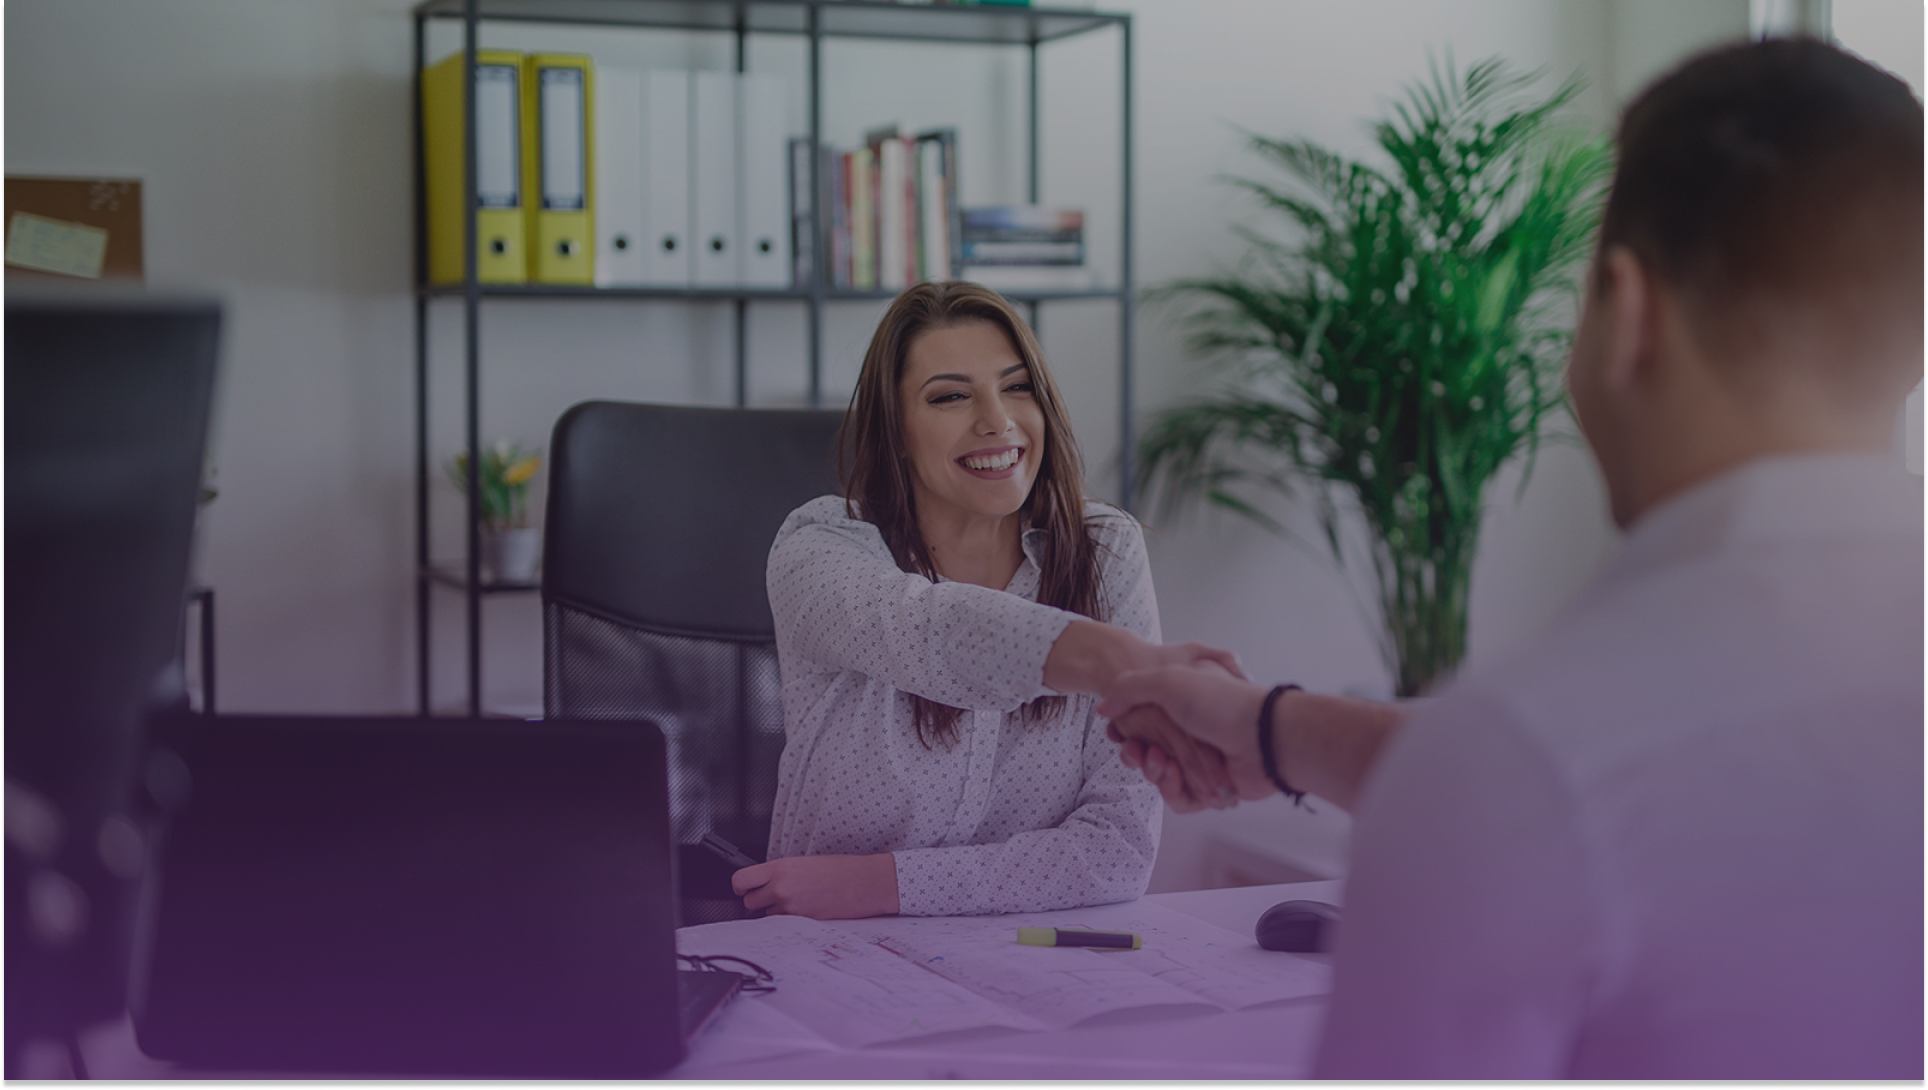
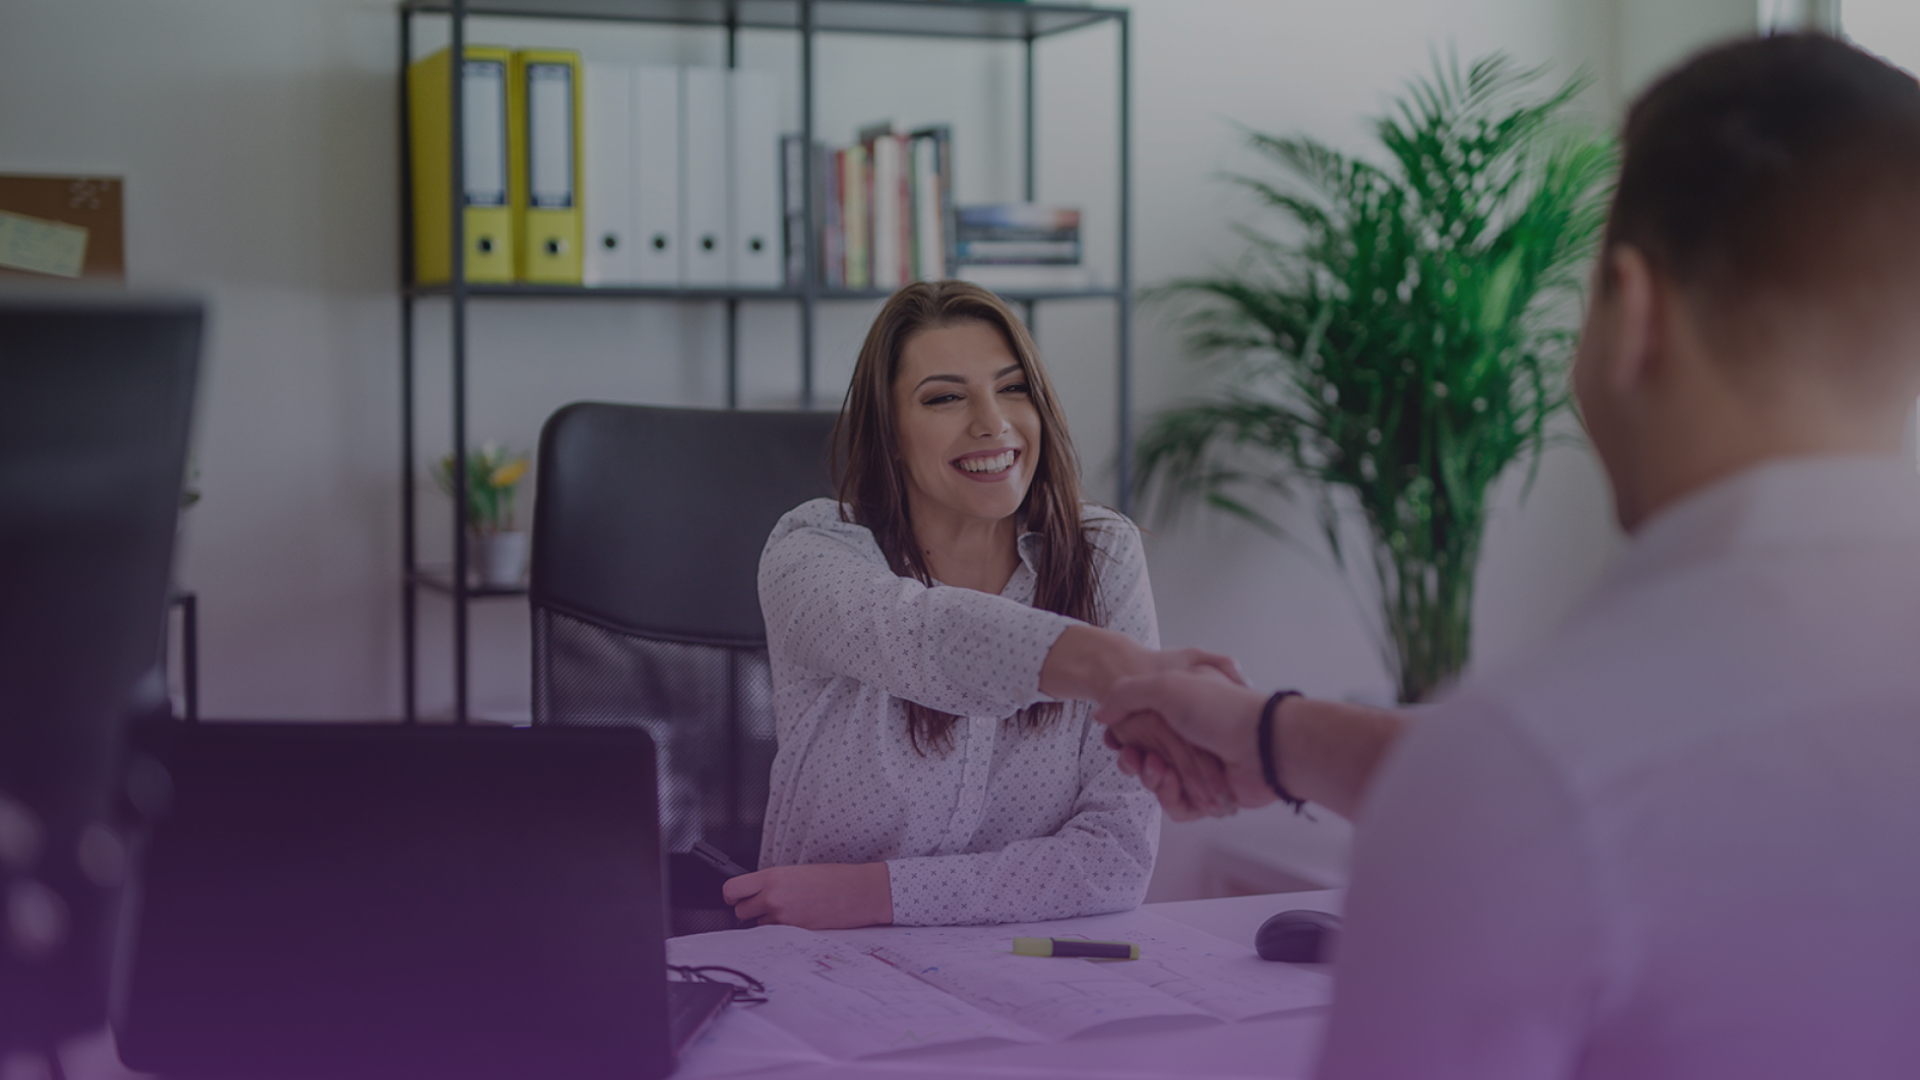
Start page (improvements)
I added a footer (information about creators) and another paragraph. In addition, the top image has been changed.

diff --git a/app/assets/stylesheets/startpage.css b/app/assets/stylesheets/startpage.css
@@ -29,6 +29,7 @@
     padding-top: 60px;
     padding-bottom: 60px;
     background-color: rgba(13, 13, 13, 0.278);
+    margin-bottom: 10px;
 }
 .largeTitle{
     color: #E7E7E7;
@@ -44,7 +45,8 @@
 }
 .startButtonContainer {
     display: block;
-    margin-top: 60px;
+    margin-top: 40px;
+    max-height: 40px;
 }
 .largeButton {
     display: block;
@@ -59,7 +61,9 @@
     background-size: 216px, 384px, cover;
     border-radius: 40px;
     transition-duration: 0.4s;
-    padding: 1.5vw;
+    /*padding: 1.2vw;*/
+    padding: 20px 40px 20px 40px;
+    box-shadow: 0px 4px 10px 2px rgba(0, 0, 0, 0.3);
 }
 .largeButton:hover {
     font-size: 32px;
@@ -179,4 +183,86 @@
     box-shadow: 0px 0px 10px 2px rgba(0, 0, 0, 0.100);
     padding: 20px 0px 20px 0px;
     margin-top: 20px;
+}
+.encouragementContainer {
+    margin-top: 25px;
+    margin-bottom: 60px;
+    font-size: 15px;
+    color: #E0ACFA;
+
+    display: flex;
+    text-align: center;
+    justify-content: center;
+    align-items: center;
+    flex-direction: column;
+}
+.logo {
+    align-items: center;
+    justify-content: center;
+    display: inline-flex;
+}
+.logo span {
+    font-size: 70px;
+    font-weight: bold;
+    padding: 10px 15px 10px 15px;
+    color: #E7E7E7;
+    text-shadow: 0px 4px 6px rgba(231, 231, 231, 0.5);
+}
+.logo img {
+    width: 75px;
+    height: 75px
+}
+.encouragementContainer p {
+    font-size: 30px;
+    font-weight: bold;
+    font-style: italic;
+    color: #A343D3;
+    margin-bottom: 5px;
+}
+@media only screen and (max-width: 400px) 
+{
+    .logo span {
+        font-size: 45px;
+        transition-duration: 0.2s;
+    }
+    .logo img {
+        width: 45px;
+        height: 45px;
+        transition-duration: 0.2s;
+    }
+    .largeButton {
+        padding: 10px 10px 10px 10px;
+        width: 200px;
+    }
+    .encouragementContainer p {
+        font-size: 20px;
+    }
+}
+.startPageFooter {
+    display: flex;
+    padding-top: 20px;
+    padding-bottom: 20px;
+    width: 100%;
+    min-width: 200px;
+    border-top: 2px dashed #262229;
+    border-bottom: 2px dashed #262229;
+    text-align: center;
+    justify-content: center;
+    align-items: right;
+    flex-direction: column;
+    height: auto;
+}
+.startPageFooter li {
+    display: inline-block;
+    padding-left: 10px;
+    color: #9f62be;
+    font-size: 14px;
+}
+.startPageFooter p {
+    display: inline-flex;
+    margin-top: 20px;
+    color: #675A41;
+    font-size: 12px;
+    padding-left: 10px;
+    padding-right: 10px;
 }
